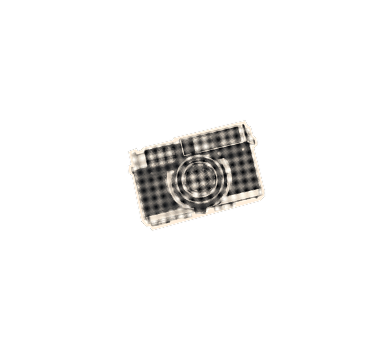
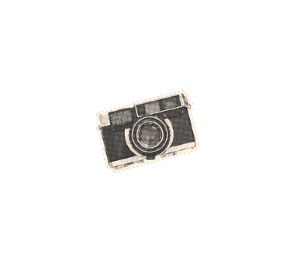
feat: implement MyselfSection with postcard and form components

Changed region(s): [[0.3368, 0.3247, 0.7018, 0.6494]]

diff --git a/src/pages/components/MySelfSection/MyselfPostcard.tsx b/src/pages/components/MySelfSection/MyselfPostcard.tsx
@@ -1,0 +1,142 @@
+import cardBg from '../../../assets/images/myself/Postcard.webp';
+import tapeImg1 from '../../../assets/images/myself/Label1.webp';
+import tapeImg2 from '../../../assets/images/myself/Label2.webp';
+import cameraIcon from '../../../assets/images/myself/Camera.webp';
+import postmarkIcon from '../../../assets/images/myself/Stamp.webp';
+import vnMapImg from '../../../assets/images/myself/MapVN.webp';
+import vnFlagStampImg from '../../../assets/images/myself/flag.webp';
+import portraitImg from '../../../assets/images/myself/BaoTrung.webp';
+import { useTranslation } from '@/utils';
+
+const MyselfPostcard = () => {
+  const t = useTranslation('main.myself');
+
+  return (
+    <div className="relative">
+      <img 
+        src={tapeImg1}
+        alt="Tape Left"
+        className="absolute inset-0 w-[210px] ml-[-17px] mt-[31px] z-40 -top-12 -left-12"
+      />
+
+      <img 
+        src={tapeImg2}
+        alt="Tape Right"
+        className="absolute w-[200px] z-40 -top-12 right-[-35px]"
+      />
+
+      <img
+        src={cameraIcon}
+        alt="Camera"
+        className="absolute inset-0 w-[390px] mt-[-60px] ml-[-70px] top-2 left-6 z-50"
+      />
+
+      <img
+        src={postmarkIcon}
+        alt="postmark"
+        className="absolute top-6 right-6 w-[240px] z-10"
+      />
+
+      <img
+        src={cardBg}
+        alt="Postcard"
+        className="w-full h-[720px] object-cover rotate-[-3deg]"
+      />
+
+      <img
+        src={portraitImg}
+        alt="Full Name"
+        className="absolute inset-0 w-[400px] h-[720px] mt-[190px] ml-[-55px] object-cover"
+      />
+    </div>
+    // <div className="relative w-full aspect-[16/11] max-w-7xl mx-auto flex items-center justify-center p-10 font-main text-brand-dark">
+    //   {/* 1. Bưu thiếp chính */}
+    //   <div className="relative w-full h-full">
+    //     {/* -- Các chi tiết trang trí -- */}
+    //     {/* Băng dính trái + máy ảnh */}
+    //     <div className="absolute -top-12 -left-12 w-44 z-40 rotate-[-8deg]">
+    //       <img src={tapeImg1} alt="tape" className="w-full" />
+    //       <img src={cameraIcon} alt="camera" className="absolute top-2 left-6 w-16" />
+    //     </div>
+
+    //     {/* Băng dính phải */}
+    //     <div className="absolute -top-10 -right-10 w-44 z-40 rotate-[8deg]">
+    //       <img src={tapeImg2} alt="tape" className="w-full" />
+    //     </div>
+
+    //     {/* Dấu bưu điện */}
+    //     <img
+    //       src={postmarkIcon}
+    //       alt="postmark"
+    //       className="absolute top-6 right-6 w-24 opacity-60 rotate-[10deg] z-10"
+    //     />
+
+    //     {/* -- Khu vực nội dung bưu thiếp -- */}
+    //     <div className="relative z-20 h-full p-12 pt-32 grid grid-cols-[1fr,2fr] gap-x-10">
+    //       {/* Cột trái: Ảnh chân dung + Bản đồ */}
+    //       <div className="flex flex-col items-center">
+    //         {/* Ảnh chân dung (absolute so với container) */}
+    //         <div className="absolute top-28 left-[-110px] w-[320px] h-[450px] z-30">
+    //           <div className="relative w-full h-full p-2 border-2 border-brand-border shadow-xl rotate-[-2deg]">
+    //             <img
+    //               src={portraitImg}
+    //               alt="Bui Le Bao Trung"
+    //               className="object-cover w-full h-full torn-edge-mask"
+    //             />
+    //           </div>
+    //         </div>
+    //         <img src={vnMapImg} alt="Vietnam Map" className="w-32 mt-auto" />
+    //       </div>
+
+    //       {/* Cột phải: Thông tin */}
+    //       <div className="space-y-4 pt-10">
+    //         <p className="flex gap-2">
+    //           <span className="font-semibold text-brand-dark/80">From:</span>
+    //           <span>{t('fullname')}</span>
+    //         </p>
+    //         <div className="flex items-center gap-4">
+    //           <p className="font-semibold text-brand-dark/80">but you can call me:</p>
+    //           <span className="border-2 border-brand-dark px-4 py-1.5 rounded-full text-base font-mono font-medium">
+    //             {t('nickname')}
+    //           </span>
+    //         </div>
+    //         <p className="flex gap-2">
+    //           <span className="font-semibold text-brand-dark/80">Address:</span>
+    //           <span>{t('address')}</span>
+    //         </p>
+    //         <div className="pt-8 space-y-4">
+    //           <h3 className="font-semibold text-lg text-brand-dark/90">Educational background:</h3>
+    //           <ul className="list-disc list-outside pl-6 space-y-2">
+    //             <li>
+    //               {t('education.first.label')}{' '}
+    //               <span className="font-mono text-sm opacity-80">
+    //                 {t('education.first.subLabel')}
+    //               </span>
+    //             </li>
+    //             <li>
+    //               {t('education.second.label')}{' '}
+    //               <span className="font-mono text-sm opacity-80">
+    //                 {t('education.second.subLabel')}
+    //               </span>
+    //             </li>
+    //             <li>
+    //               {t('education.third.label')}{' '}
+    //               <span className="font-mono text-sm opacity-80">
+    //                 {t('education.third.subLabel')}
+    //               </span>
+    //             </li>
+    //           </ul>
+    //         </div>
+    //       </div>
+    //     </div>
+
+    //     {/* Tem cờ VN */}
+    //     <div className="absolute -bottom-16 -right-16 w-36 z-50 rotate-[10deg] shadow-lg">
+    //       <img src={vnFlagStampImg} alt="Vietnam Flag Stamp" className="w-full" />
+    //     </div>
+    //   </div>
+    // </div>
+  );
+};
+
+export default MyselfPostcard;

diff --git a/src/pages/components/MySelfSection/index.tsx b/src/pages/components/MySelfSection/index.tsx
@@ -1,32 +1,16 @@
-import { ButtonCustom } from '@/components/ButtonCustom';
-import { useTranslation } from '@/utils';
+import MyselfPostcard from './MyselfPostcard';
 
-export const MySelfSection = () => {
-  const t = useTranslation('main.myself');
-
+const MySelfSection = () => {
   return (
-    <>
-      <div>
-        <form>
-          <p>{t('fullname')}</p>
-          <p>{t('nickname')}</p>
-          <p>{t('address')}</p>
-          <p>{t('education.first.label')}</p>
-          <span>{t('education.first.subLabel')}</span>
-          <p>{t('education.second.label')}</p>
-          <span>{t('education.second.subLabel')}</span>
-          <p>{t('education.third.label')}</p>
-          <span>{t('education.third.subLabel')}</span>
-        </form>
+    <div className="min-h-screen flex items-center justify-center ml-[90px] mt-[-70px] p-10 overflow-x-hidden">
+      <div className="relative w-full max-w-screen-2xl flex flex-col md:flex-row items-center">
+        {/* Khu vực bưu thiếp (Trái) */}
+          <MyselfPostcard />
+        {/* Khu vực thông tin (Phải) */}
+        {/* <MyselfInfo /> */}
       </div>
-      <div>
-        <p>{t('headline')}</p>
-        <p>{t('fullname')}</p>
-        <p>{t('title')}</p>
-        <span>{t('subTitle')}</span>
-        <ButtonCustom className="bg-[#E9D4B9] text-[#3C2F2F]" value={t('downloadCV')} />
-        <ButtonCustom className="bg-[#E9D4B9] text-[#3C2F2F]" value={t('contact')} />
-      </div>
-    </>
+    </div>
   );
 };
+
+export default MySelfSection;

diff --git a/src/pages/components/JobSection/index.tsx b/src/pages/components/JobSection/index.tsx
@@ -1,0 +1,32 @@
+import { ButtonCustom } from '@/components/ButtonCustom';
+import { useTranslation } from '@/utils';
+
+export const MySelfSection = () => {
+  const t = useTranslation('main.myself');
+
+  return (
+    <>
+      <div>
+        <form>
+          <p>{t('fullname')}</p>
+          <p>{t('nickname')}</p>
+          <p>{t('address')}</p>
+          <p>{t('education.first.label')}</p>
+          <span>{t('education.first.subLabel')}</span>
+          <p>{t('education.second.label')}</p>
+          <span>{t('education.second.subLabel')}</span>
+          <p>{t('education.third.label')}</p>
+          <span>{t('education.third.subLabel')}</span>
+        </form>
+      </div>
+      <div>
+        <p>{t('headline')}</p>
+        <p>{t('fullname')}</p>
+        <p>{t('title')}</p>
+        <span>{t('subTitle')}</span>
+        <ButtonCustom className="bg-[#E9D4B9] text-[#3C2F2F]" value={t('downloadCV')} />
+        <ButtonCustom className="bg-[#E9D4B9] text-[#3C2F2F]" value={t('contact')} />
+      </div>
+    </>
+  );
+};

diff --git a/src/pages/components/MySelfSection/MyselfInfo.tsx b/src/pages/components/MySelfSection/MyselfInfo.tsx
@@ -1,0 +1,24 @@
+// import { ButtonCustom } from '@/components/ButtonCustom';
+// import { useTranslation } from '@/utils';
+
+// const MyselfInfo = () => {
+//   const t = useTranslation('main.myself');
+//   return (
+//     <div className="w-full md:w-2/5 flex flex-col items-start font-main text-brand-dark space-y-8 pr-10">
+//       <p className="text-3xl font-light">{t('headline')}</p>
+//       <div className="relative">
+//         <h1 className="text-7xl font-signature border-b-4 border-brand-dark pb-2 leading-tight">
+//           {t('fullname')}
+//         </h1>
+//       </div>
+//       <p className="text-3xl font-light">{t('title')}</p>
+//       <p className="text-5xl font-blue-script text-brand-blue tracking-wide">{t('subTitle')}</p>
+//       <div className="flex gap-10 mt-12 pt-8">
+//         <ButtonCustom className="bg-[#E9D4B9] text-[#3C2F2F]" value={t('downloadCV')} />
+//         <ButtonCustom className="bg-[#E9D4B9] text-[#3C2F2F]" value={t('contact')} />
+//       </div>
+//     </div>
+//   );
+// };
+
+// export default MyselfInfo;

diff --git a/src/components/SideBar/index.tsx b/src/components/SideBar/index.tsx
@@ -40,7 +40,7 @@ const MENU_ITEMS = [
 
 export const SideBar = () => {
   return (
-    <aside className="left-0 top-0 ml-[-25px] w-[200px] h-screen flex items-center justify-center">
+    <aside className="fixed left-0 top-0 ml-[-25px] w-[200px] h-screen flex items-center justify-center z-50">
       <ul className="flex flex-col items-center gap-4">
         {MENU_ITEMS.map((item) => (
           <li key={item.key}>

diff --git a/src/pages/BaoTrung.tsx b/src/pages/BaoTrung.tsx
@@ -1,4 +1,4 @@
-import { MySelfSection } from "./components/MySelfSection";
+import MySelfSection from "./components/MySelfSection";
 
 export const BaoTrung = () => {
   return (